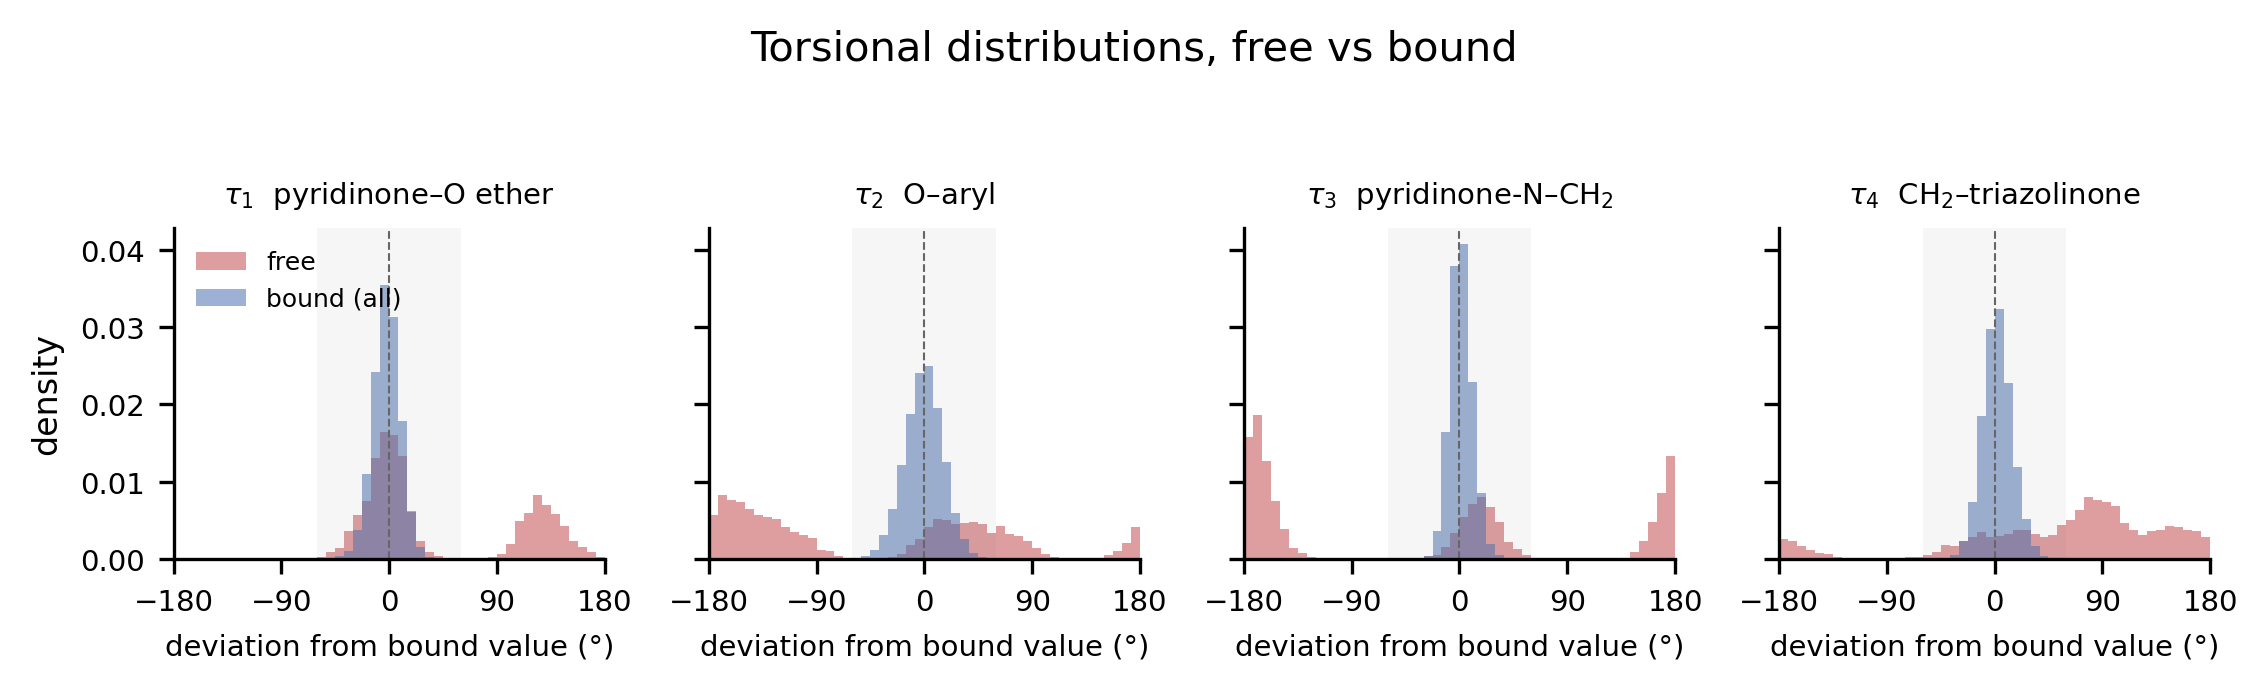
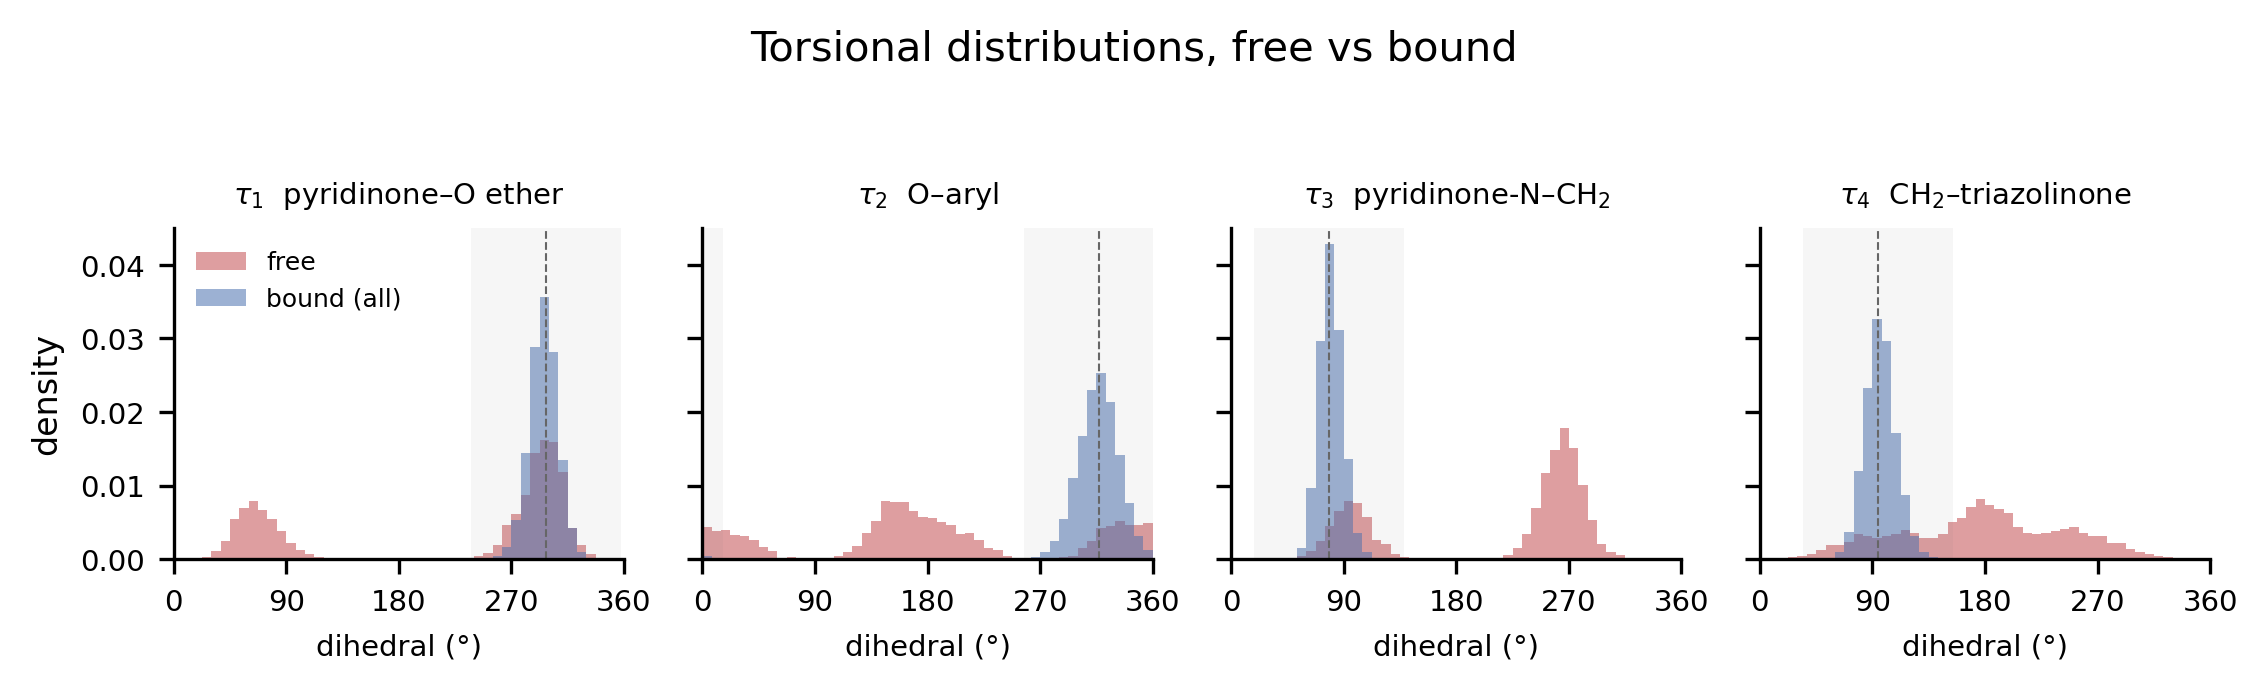
Plot the torsions as 0-360 dihedrals, not deviations from the bound value
An angle is circular, so the plot always has a branch cut and the only question
is where to put it. Plotting the deviation from the bound value put the cut 180
degrees from the bound rotamer, which is exactly where tau3's free rotamer
sits: 594 seam crossings per 100 ns and a solid block of ink hiding a clean
two-state switch. Seam crossings per 100 ns in the free trajectories:

    frame          tau1  tau2  tau3  tau4
    -180..180         2   342     5   860
    0..360           53   286     0    75
    deviation         6   220   594   258
    emptiest cut      2    34     5    75

0..360 is now the default: the convention a reader expects, best or near-best
for three of the four, and tau1's 53 crossings are harmless once the line is
broken at the seam. --angle-frame auto puts each torsion's cut at its emptiest
angle instead. Neither helps tau2 or tau4 much, and that is not a plotting
defect -- the free ligand genuinely samples the whole circle on those two.

Axes now carry real dihedral values rather than deviations, and the basin band
wraps the axis edge where it straddles the cut (tau2).

diff --git a/src/nnrti/cli/plot_dor_torsion_kinetics.py b/src/nnrti/cli/plot_dor_torsion_kinetics.py
@@ -20,6 +20,25 @@ Two traps this script is built around:
     defined as a basin centred on the bound circular mean, which has no edge
     near the populated region.
 
+  * An angle is circular, so a plot of it always has a branch cut somewhere and
+    the only question is where. Plotting the deviation from the bound value put
+    the cut 180 degrees from the bound rotamer -- which is exactly where tau3's
+    free rotamer sits, giving 594 seam crossings per 100 ns and a solid block of
+    ink. Measured over the free trajectories, crossings per 100 ns are:
+
+        frame          tau1  tau2  tau3  tau4
+        -180..180         2   342     5   860
+        0..360           53   286     0    75
+        deviation         6   220   594   258
+        emptiest cut      2    34     5    75
+
+    0..360 is the default: it is the convention a reader expects, it is the
+    best or near-best frame for three of the four, and tau1's 53 crossings are
+    visually harmless once the line is broken at the seam. ``--angle-frame
+    auto`` instead puts each torsion's cut at its emptiest angle. Neither helps
+    tau2 or tau4 much, and that is not a plotting defect: the free ligand
+    genuinely samples the whole circle on those two, so no cut is empty.
+
 Time axes come from each run's recorded ``analysis_dt_ps``, cross-checked
 against ``production_ns_completed``; never from the DCD header or frame index.
 
@@ -82,6 +101,40 @@ def circ_dist_deg(a, centre) -> np.ndarray:
 
 
 
+
+def _branch_cut(frame: str, angles_for_scan: np.ndarray | None = None) -> float:
+    """Lower edge of the plotted range, in degrees.
+
+    The plotted value is ``(angle - cut) % 360 + cut``, so the seam falls at
+    ``cut``. "auto" scans for the angle with the least density within +/-15
+    degrees, pooling free and bound so the cut is empty for both.
+    """
+    if frame == "positive":
+        return 0.0
+    if frame == "signed":
+        return -180.0
+    cands = np.arange(-180.0, 180.0, 5.0)
+    dens = [float((np.abs((angles_for_scan - c + 180.0) % 360.0 - 180.0) <= 15.0).mean())
+            for c in cands]
+    return float(cands[int(np.argmin(dens))])
+
+
+def _wrap(a: np.ndarray, cut: float) -> np.ndarray:
+    return (np.asarray(a, float) - cut) % 360.0 + cut
+
+
+
+def _basin_bands(centre: float, half: float, lo: float,
+                 hi: float) -> list[tuple[float, float]]:
+    """The basin as 1 or 2 spans, splitting it if it runs off the plotted range."""
+    a, b = centre - half, centre + half
+    if a < lo:
+        return [(lo, b), (a + 360.0, hi)]
+    if b > hi:
+        return [(a, hi), (lo, b - 360.0)]
+    return [(a, b)]
+
+
 def _break_at_seam(t: np.ndarray, y: np.ndarray,
                    jump_deg: float = 180.0) -> tuple[np.ndarray, np.ndarray]:
     """Insert NaN where consecutive angles wrap, so no false vertical stroke."""
@@ -134,6 +187,10 @@ def main(argv: list[str] | None = None) -> int:
     p.add_argument("--runs-root", type=Path, default=Path("results/md_runs"))
     p.add_argument("--output-dir", type=Path,
                    default=Path("results/analysis/dor_torsions_solution/plots"))
+    p.add_argument("--angle-frame", choices=("positive", "signed", "auto"),
+                   default="positive",
+                   help="positive: 0-360 (default). signed: -180..180. "
+                        "auto: per-torsion branch cut at the emptiest angle.")
     args = p.parse_args(argv)
 
     plt = _style()
@@ -148,37 +205,53 @@ def main(argv: list[str] | None = None) -> int:
     print(f"frame spacing: free {dt_free * 1000:.0f} ps; "
           f"WT bound " + ", ".join(f"rep{r} {v * 1000:.0f} ps" for r, v in dt_wt.items()))
 
+    # Branch cut per torsion, and the seam-crossing count it costs, so the
+    # choice is recorded in the output rather than argued about.
+    cuts, seam = {}, {}
+    for t in TAUS:
+        pool = np.concatenate([sol[t].to_numpy(), bound_all[t].to_numpy()])
+        cuts[t] = _branch_cut(args.angle_frame, pool)
+        seam[t] = int(np.mean([
+            np.sum(np.abs(np.diff(_wrap(g.sort_values("frame")[t].to_numpy(),
+                                        cuts[t]))) > 180.0)
+            for _, g in sol.groupby("replicate")]))
+    print(f"angle frame {args.angle_frame!r}: " + ", ".join(
+        f"{t} cut {cuts[t]:.0f}° ({seam[t]} seam crossings/100 ns free)" for t in TAUS))
+
     # ---------------- Figure 1: trajectories ----------------
-    fig, axes = plt.subplots(4, 2, figsize=(7.2, 7.6), sharex="col", sharey=True)
+    fig, axes = plt.subplots(4, 2, figsize=(7.2, 7.6), sharex="col")
     for i, t in enumerate(TAUS):
-        c = ref[t]
+        c, cut = ref[t], cuts[t]
+        lo, hi = cut, cut + 360.0
+        c_plot = float(_wrap(np.array([c]), cut)[0])
         for j, (which, g_all, colour, dts) in enumerate([
                 ("DOR free in water", sol, C_FREE, {r: dt_free for r in sol.replicate.unique()}),
                 ("DOR bound to WT RT", wt, C_BOUND, dt_wt)]):
             ax = axes[i, j]
-            # Plot the angle as a deviation from the bound rotamer centre, so a
-            # basin that straddles +/-180 is not split across the panel.
-            lo, hi = -180.0, 180.0
-            ax.axhspan(-BASIN_HALF_WIDTH, BASIN_HALF_WIDTH, color=colour, alpha=0.08, lw=0)
-            ax.axhline(0, color="0.4", lw=0.5, ls="--", zorder=1)
+            # The bound basin is a band about the bound value; if it runs off an
+            # edge of the plotted range the remainder is drawn at the other edge,
+            # because the axis is a circle cut open at `cut`.
+            for b0, b1 in _basin_bands(c_plot, BASIN_HALF_WIDTH, lo, hi):
+                ax.axhspan(b0, b1, color=colour, alpha=0.08, lw=0)
+            ax.axhline(c_plot, color="0.4", lw=0.5, ls="--", zorder=1)
             for rep, g in g_all.groupby("replicate"):
                 g = g.sort_values("frame")
                 dt = dts.get(rep) or dt_free
                 time_ns = (np.arange(len(g)) + 1) * dt
-                dev = ((g[t].to_numpy() - c + 180.0) % 360.0) - 180.0
-                # Break the line where it wraps the +/-180 seam, or matplotlib
-                # draws a vertical stroke across the whole panel and the
-                # plateaus between hops disappear into a solid block.
-                time_ns, dev = _break_at_seam(time_ns, dev)
-                ax.plot(time_ns, dev, lw=0.35, alpha=0.75, color=colour,
+                ang = _wrap(g[t].to_numpy(), cut)
+                # Break the line at the seam, or matplotlib draws a vertical
+                # stroke across the panel and the plateaus between hops vanish
+                # into a solid block.
+                time_ns, ang = _break_at_seam(time_ns, ang)
+                ax.plot(time_ns, ang, lw=0.35, alpha=0.75, color=colour,
                         rasterized=True)
             ax.set_ylim(lo, hi)
-            ax.set_yticks([-180, -90, 0, 90, 180])
+            ax.set_yticks(np.arange(lo, hi + 1, 90))
             ax.set_xlim(0, 100)
             if i == 0:
                 ax.set_title(which, color=colour)
             if j == 0:
-                ax.set_ylabel(f"{TAU_LABELS[t]}\ndeviation (°)", fontsize=7)
+                ax.set_ylabel(f"{TAU_LABELS[t]}\n(°)", fontsize=7)
             if i == 3:
                 ax.set_xlabel("time (ns)")
             # escape rate annotation, at matched resolution for the free column
@@ -198,9 +271,13 @@ def main(argv: list[str] | None = None) -> int:
                     fontsize=6, color="0.25")
     fig.suptitle("Binding abolishes rotamer exchange in doravirine", y=0.995, fontsize=10)
     fig.text(0.5, -0.012,
-             "Shaded band: the bound rotamer basin (± %.0f° about the WT-bound circular mean). "
-             "Free runs 50 ps/frame; bound 200–559 ps/frame."
-             % BASIN_HALF_WIDTH, ha="center", fontsize=6, color="0.35")
+             "Shaded band: the bound rotamer basin (± %.0f° about the WT-bound circular mean); "
+             "it wraps the axis edge where the basin straddles the branch cut.\n"
+             "Free runs 50 ps/frame; bound 200–559 ps/frame. An angle is circular, so the "
+             "axis is cut open at %s — breaks in a trace are that seam, not gaps in the data."
+             % (BASIN_HALF_WIDTH,
+                "0°/360°" if args.angle_frame == "positive" else "its emptiest angle"),
+             ha="center", fontsize=6, color="0.35")
     fig.tight_layout()
     args.output_dir.mkdir(parents=True, exist_ok=True)
     f1 = args.output_dir / "dor_torsion_trajectories.png"
@@ -209,20 +286,22 @@ def main(argv: list[str] | None = None) -> int:
 
     # ---------------- Figure 2: distributions ----------------
     fig, axes = plt.subplots(1, 4, figsize=(7.6, 2.1), sharey=True)
-    bins = np.arange(-180, 181, 7.5)
     for i, t in enumerate(TAUS):
         ax = axes[i]
-        c = ref[t]
+        c, cut = ref[t], cuts[t]
+        lo, hi = cut, cut + 360.0
+        c_plot = float(_wrap(np.array([c]), cut)[0])
+        bins = np.arange(lo, hi + 0.1, 7.5)
         for which, g, colour in [("free", sol, C_FREE), ("bound (all)", bound_all, C_BOUND)]:
-            dev = ((g[t].to_numpy() - c + 180.0) % 360.0) - 180.0
-            ax.hist(dev, bins=bins, density=True, color=colour, alpha=0.55,
-                    label=which, lw=0)
-        ax.axvspan(-BASIN_HALF_WIDTH, BASIN_HALF_WIDTH, color="0.5", alpha=0.07, lw=0)
-        ax.axvline(0, color="0.4", lw=0.5, ls="--")
-        ax.set_xlim(-180, 180)
-        ax.set_xticks([-180, -90, 0, 90, 180])
+            ax.hist(_wrap(g[t].to_numpy(), cut), bins=bins, density=True,
+                    color=colour, alpha=0.55, label=which, lw=0)
+        for b0, b1 in _basin_bands(c_plot, BASIN_HALF_WIDTH, lo, hi):
+            ax.axvspan(b0, b1, color="0.5", alpha=0.07, lw=0)
+        ax.axvline(c_plot, color="0.4", lw=0.5, ls="--")
+        ax.set_xlim(lo, hi)
+        ax.set_xticks(np.arange(lo, hi + 1, 90))
         ax.set_title(TAU_LABELS[t], fontsize=7)
-        ax.set_xlabel("deviation from bound value (°)", fontsize=7)
+        ax.set_xlabel("dihedral (°)", fontsize=7)
         if i == 0:
             ax.set_ylabel("density")
             ax.legend(frameon=False, loc="upper left", fontsize=6)
